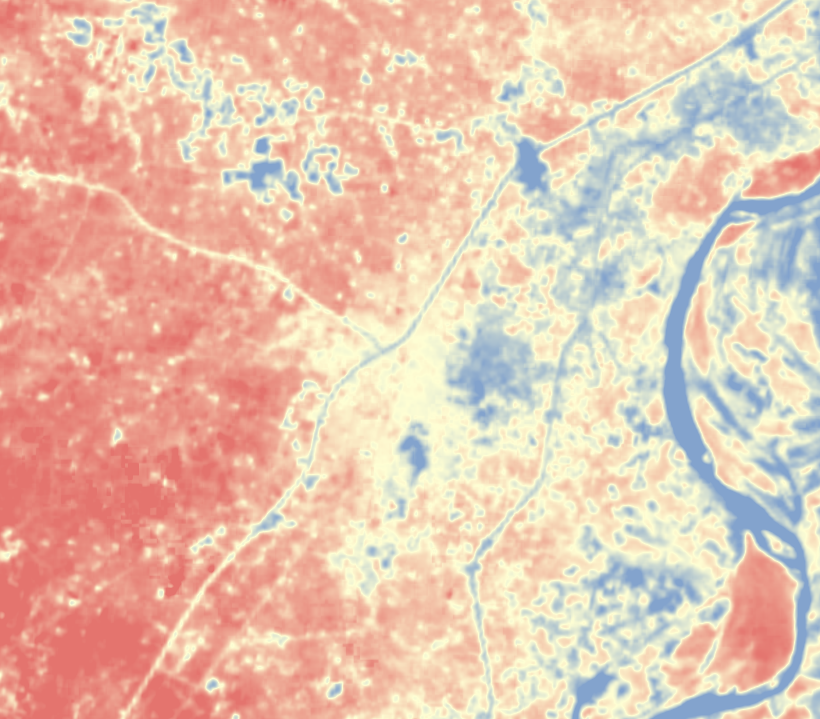
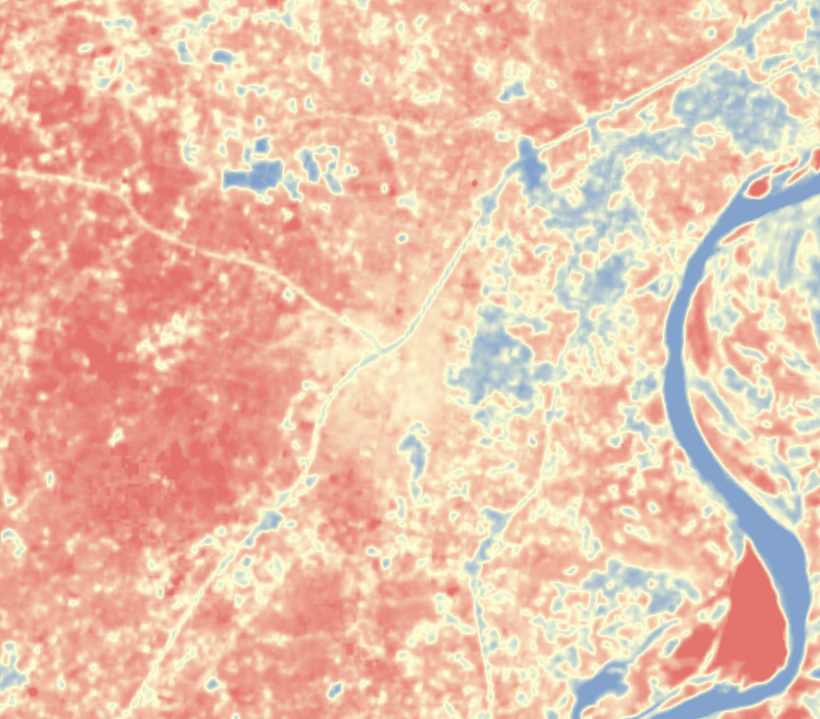
Canopy image overlay + refreshed data; scene-agnostic heat copy; drop unused PMTiles

diff --git a/app/app.js b/app/app.js
@@ -217,7 +217,7 @@ function buildStats(){
   if (p) rows.push({ cls:"plant", n:fmtNum(p.stats.area_ha), l:"hectares of hot, treeless, plantable land" });
   if (c) rows.push({ cls:"green", n:c.stats.tree_cover_pct + "%", l:"of the area under tree canopy (satellite, &ge;3 m)" });
   if (h) rows.push({ cls:"hot", n:Math.round(h.stats.mean_c) + "&deg;C", l:"mean ground temperature, " + fmtDate(h.date) });
-  if (h) rows.push({ cls:"hot", n:Math.round(h.stats.max_c) + "&deg;C", l:"hottest surface that day (~50&deg;C air in the heatwave)" });
+  if (h) rows.push({ cls:"hot", n:Math.round(h.stats.max_c) + "&deg;C", l:"hottest surface on that clear day" });
   document.getElementById("stats").innerHTML = rows.map((r) =>
     `<div class="stat ${r.cls}"><div class="n">${r.n}</div><div class="l">${r.l}</div></div>`).join("");
 }
@@ -360,7 +360,7 @@ function buildSources(){
   lines.push("<p><b>Data sources</b> (real, openly licensed)</p>");
   if (L.canopy) lines.push(`<p>Canopy height: <a href="https://registry.opendata.aws/dataforgood-fb-forestsv2/" target="_blank" rel="noopener">Meta &amp; WRI CHM v2</a>, ${L.canopy.license}.</p>`);
   if (L.landcover) lines.push(`<p>Land cover: <a href="https://esa-worldcover.org" target="_blank" rel="noopener">ESA WorldCover ${L.landcover.year}</a>, ${L.landcover.license}.</p>`);
-  if (L.heat) lines.push(`<p>Surface temperature: <a href="https://planetarycomputer.microsoft.com/dataset/landsat-c2-l2" target="_blank" rel="noopener">Landsat C2 L2</a> (${L.heat.scene}, ${fmtDate(L.heat.date)}), ${L.heat.license}. That day's heatwave pushed Larkana to about 50&deg;C air (<a href="https://www.pakistantoday.com.pk/2026/06/12/interior-sindh-temperatures-top-50c-as-karachi-endures-hot-humid-weather" target="_blank" rel="noopener">report</a>); surfaces read hotter than air.</p>`);
+  if (L.heat) lines.push(`<p>Surface temperature: <a href="https://planetarycomputer.microsoft.com/dataset/landsat-c2-l2" target="_blank" rel="noopener">Landsat C2 L2</a> (${L.heat.scene}, ${fmtDate(L.heat.date)}), ${L.heat.license}. One clear-day ground reading; Larkana's June air routinely tops 45&deg;C and sun-baked surfaces read far hotter.</p>`);
   lines.push(`<p>Basemap: OpenStreetMap, CARTO, Esri. Species photos from Wikimedia Commons (credits on each card).</p>`);
   lines.push(`<p style="margin-top:10px;color:var(--ink-faint)">Built by Dr. Safeer Ali Mirani &middot; <a href="mailto:[email redacted]">contact</a> &middot; data clipped ${fmtDate(META.generated)}.</p>`);
   document.getElementById("sources").innerHTML = lines.join("");

diff --git a/app/index.html b/app/index.html
@@ -226,6 +226,6 @@
 
 <script src="https://unpkg.com/maplibre-gl@4.7.1/dist/maplibre-gl.js"></script>
 <script src="https://unpkg.com/deck.gl@9/dist.min.js"></script>
-<script src="app.js?v=14"></script>
+<script src="app.js?v=15"></script>
 </body>
 </html>